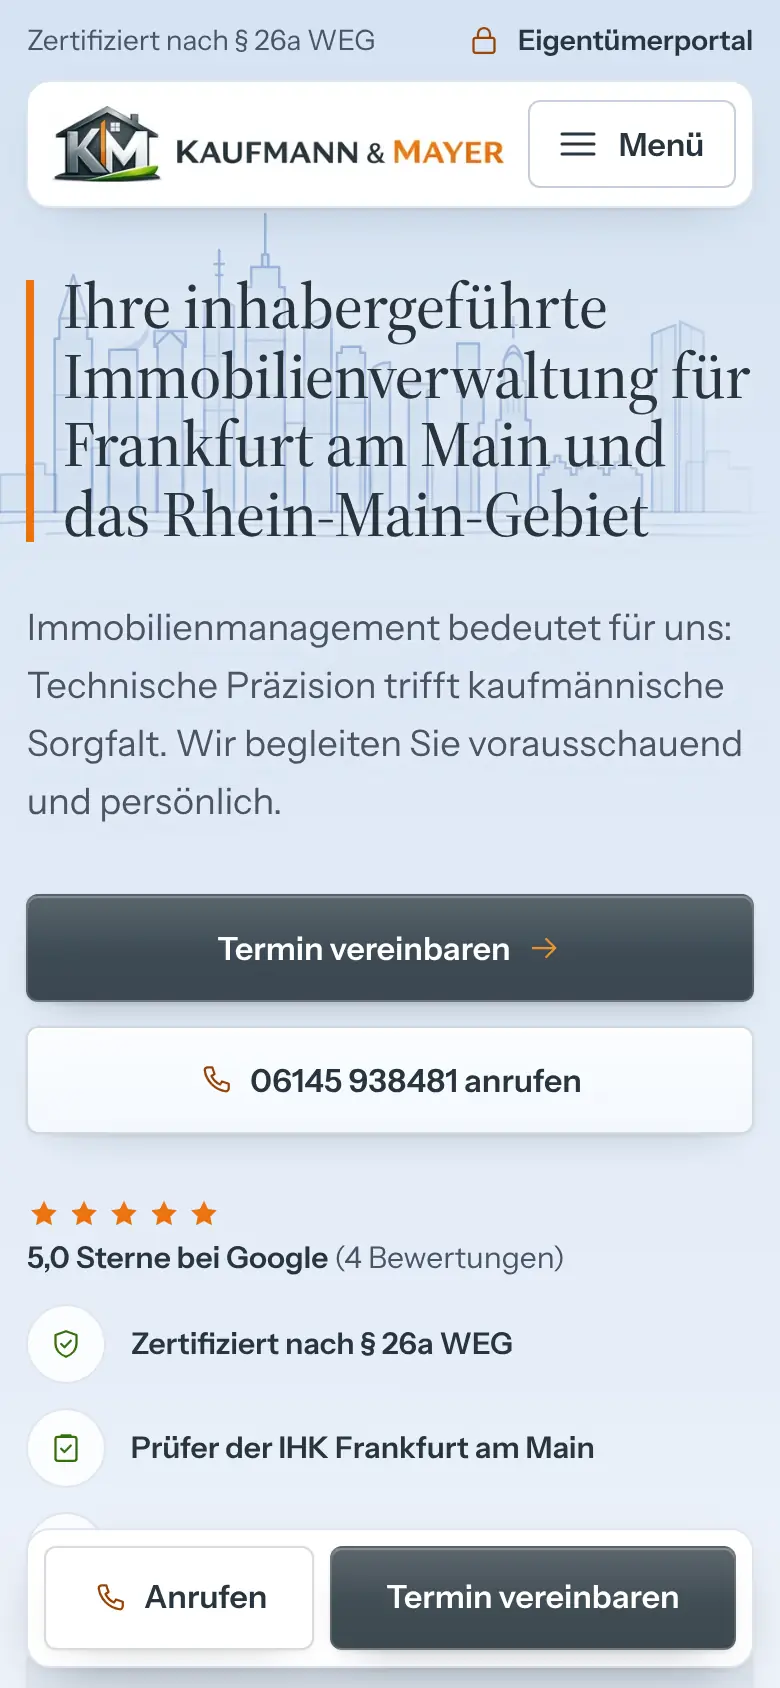
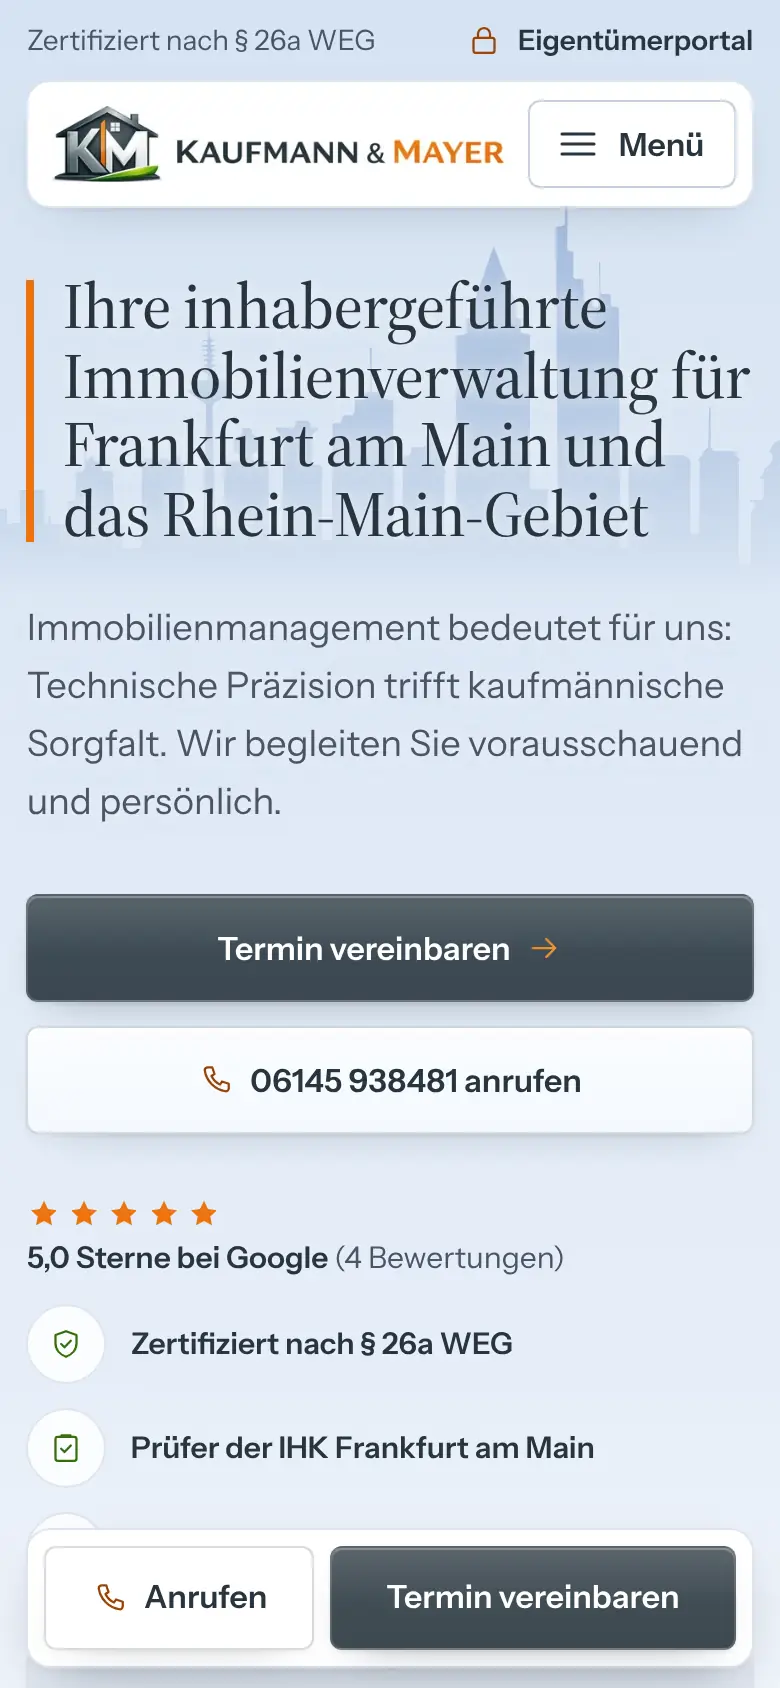
feat: Skyline im Hero nach gelieferter Vorlage, größer und ohne Linien
- Frankfurter Skyline aus quellen/skyline-vorlage.png als Silhouette
  nachgezeichnet (tools/assets/skyline.py, OpenCV), ersetzt die selbst
  gezeichnete Linien-Skyline samt Grund- und Flusslinien.
- Am Desktop über die ganze Hero-Breite und links über den Rand hinaus,
  mobil hinter der Überschrift; blaue Fläche, oben kräftiger, nach unten und
  rechts auslaufend.
- README (Bauen, Grafiken, Lighthouse) und Screenshots aktualisiert.

Claude-Session: https://claude.ai/code/session_01JTmRKaozQkuH4p26yrBSYo

diff --git a/site/index.html b/site/index.html
@@ -204,9 +204,9 @@
   <!-- 2 Hero – Aufgabe: Vertrauen auf den ersten Blick, direkter Weg zur Anfrage -->
   <section class="section hero" aria-labelledby="hero-titel">
     <div class="wrap hero__grid">
-      <!-- Frankfurter Skyline als Linienzeichnung im Hintergrund (Messeturm, Westend Tower, Trianon, Main Tower,
-           Commerzbank Tower, Taunusturm, Opernturm, Skyper, Japan Center, Omniturm, Dom, Römer, EZB) -->
-      <svg class="hero__skyline" viewBox="0 0 1000 440" aria-hidden="true" focusable="false"><path class="sky__hinten" d="M0 400V352H34V338H58V352H72V400M118 400V318H138V400M178 400V306H200V400M236 400V296H262V400M366 400V286H390V400M462 400V318H476V400M554 400V322H578V310H604V400M880 400V336H906V322H934V344H962V400"/><path class="sky__tuerme" d="M70 400V178H76V152H112V178H118V400M76 152L94 96L112 152M140 400V192H176V400M202 400V188H198V168H238V188H234V400M198 188L218 168L238 188M262 400V136Q281 122 300 136V400M281 128V64M275 82H287M277 96H285M315 400V112H322V86H358V112H365V400M336 86V70H344V86M340 70V18M390 400V162L425 146V400M432 400V196H438V188H462V196H468V400M524 400V244H516V236H556V244H548V400M474 400V226Q474 210 500 208V400M586 400V286H592V246H586V184H614V246H620V286H614V400M636 400V282H642V232H646V206Q658 186 670 206V232H674V282H680V400M646 206Q658 168 670 206M658 176V150M653 160H663M690 400V352L697 352V344L704 344V336L711 336L711 328L718 328V336L725 336V344L732 344V352L739 352V344L746 344V336L753 336V328L760 328V336L767 336V344L774 344V352L781 352V344L788 344V336L795 336V328L802 328V336L809 336V344L816 344V352L823 352V400M836 400V172L866 160V400M870 400L872 156L902 170V400M866 236H870M866 300H870"/><path class="sky__details" d="M70 250H118M70 320H118M150 192Q190 186 192 150M160 192Q188 184 191 160M170 192Q186 184 190 172M315 180H365M315 250H365M315 320H365M262 200H300M262 270H300M262 340H300M281 136V400M390 230H425M390 300H425M432 260H468M432 330H468M651 240V272M658 240V272M665 240V272M848 172V400M886 166V400"/><path class="sky__boden" d="M0 400H1000"/><path class="sky__fluss" d="M0 414Q125 408 250 414T500 414T750 414T1000 414M60 428Q185 422 310 428T560 428T810 428T1000 427"/></svg>
+      <!-- Frankfurter Skyline als Silhouette im Hintergrund, nachgezeichnet aus der gelieferten Vorlage
+           (quellen/skyline-vorlage.png, Werkzeug: tools/assets/skyline.py) -->
+      <svg class="hero__skyline" viewBox="0 0 1000 413" preserveAspectRatio="xMinYMax meet" aria-hidden="true" focusable="false"><defs><linearGradient id="sky-verlauf" x1="0" y1="0" x2="0" y2="1"><stop offset="0" stop-color="#2a5ea8" stop-opacity=".3"/><stop offset=".55" stop-color="#2a5ea8" stop-opacity=".21"/><stop offset=".85" stop-color="#2a5ea8" stop-opacity=".08"/><stop offset="1" stop-color="#2a5ea8" stop-opacity="0"/></linearGradient></defs><path fill="url(#sky-verlauf)" fill-rule="evenodd" d="M999.5 317.4L998 315.9L980.8 316.4L978.8 315.5L978.3 267.2L976.9 265.7L971 265.7L969 262.3L957.2 262.3L954.2 258.9L953.2 255.4L953.2 258.4L949.8 263.8L947.3 263.8L944.4 266.2L941.4 266.7L940.9 277.6L935.5 280L936.5 337.1L935.5 338.1L923.2 339.1L921.3 337.6L920.3 303.6L868.6 304.6L868.6 336.6L867.1 338.1L862.7 338.6L860.7 336.6L860.2 264.8L859.3 263.8L848.9 263.8L847.9 262.8L847.9 256.9L846.5 254.4L826.3 254.4L825.3 255.4L825.3 262.8L817.9 263.8L815.5 265.7L815.9 351.4L813.5 353.3L805.1 352.9L803.1 351.4L802.7 325.3L803.1 319.9L806.1 317.4L805.1 316.4L795.8 316.4L794.8 315.5L794.3 295.8L796.8 293.8L793.8 291.3L792.8 286.4L790.4 282.5L784.9 278.1L784.9 270.7L788.4 269.2L786.4 266.2L786.4 263.3L780 256.9L773.6 261.8L772.1 266.2L770.2 268.2L774.1 270.7L774.1 278.1L768.2 283L765.7 286.4L764.8 290.8L761.8 293.3L761.8 294.8L765.3 295.8L765.3 314.5L763.3 316.4L752 316.4L751 317.4L752.5 318.9L755.4 318.9L756.4 320.4L755.9 325.8L752.5 328.2L752.5 378.9L750.5 380.4L741.1 379.9L740.2 378.9L740.6 274.6L737.7 272.1L737.2 268.7L735.7 267.7L715.1 267.7L712.1 263.8L712.1 223.9L710.6 223.4L709.6 263.8L704.2 268.7L703.7 271.7L700.8 274.1L700.8 349.4L699.8 350.4L692.9 350.4L691.4 347.4L691.9 276.1L684.5 271.7L654 271.7L648.6 274.6L646.2 279.5L636.8 279L629.9 284L629.9 363.2L628.4 364.7L622.5 364.7L621.6 363.7L620.1 125L618.1 123L612.2 122.5L611.7 111.7L610.7 110.2L602.9 110.2L601.4 108.8L601.4 77.3L600.4 77.8L600.9 108.3L599.4 123L595.5 123.5L594 122L594 118.6L592.5 117.6L587.1 118.1L585.1 116.6L584.6 96.9L583.7 95.5L576.3 95.5L574.3 93L574.8 68.9L573.3 67.4L569.9 67.4L568.4 65.5L568.9 1L566.9 0L565.9 1L566.4 40.4L563 42.3L558.1 42.3L557.1 44.3L559.1 336.6L557.1 339.6L550.2 339.6L548.7 337.6L548.7 306.6L547.7 305.6L532.5 306.6L531 304.1L531 151.6L530 150.1L523.1 149.6L521.7 148.1L522.1 135.3L518.7 134.8L517.2 133.4L517.2 120.6L494.6 62.5L472.9 125L472.9 133.4L471.5 134.8L467.5 135.3L467.5 149.1L465.1 151.1L457.2 152.1L456.7 348.9L455.7 350.4L446.4 350.4L444.9 348.9L445.9 272.1L441.4 271.2L440 269.7L439 251L430.6 250.5L427.2 251.5L426.2 263.3L412.9 263.8L411.9 264.8L411.9 269.7L409.9 271.7L404 272.1L403.5 355.3L402.1 356.8L396.2 356.8L394.7 355.3L394.2 217L385.3 215.1L383.9 209.2L374 208.7L372.5 207.2L372.5 163.9L370.6 164.4L371.1 207.7L365.6 209.6L365.2 214.6L363.7 216L355.8 216.5L354.8 230.3L353.3 231.8L343.5 231.8L341.5 239.7L334.2 239.7L333.2 241.1L332.7 356.8L329.7 357.8L322.3 356.3L322.3 282L313.5 281.5L312.5 280.5L312.5 250.5L319.4 244.6L311.5 244.1L309.5 237.2L297.7 237.2L295.8 239.2L295.8 243.1L294.3 244.6L276.6 244.1L275.6 245.1L283.5 255.4L283 355.8L281.5 356.8L271.7 356.8L269.7 354.8L269.2 278.5L267.7 277.6L254.9 277.6L252.5 276.1L252 271.2L259.4 266.7L259.4 254.4L252.5 251L252.5 247L250.5 244.6L243.1 245.1L242.1 250.5L234.7 254.9L234.3 265.7L236.2 268.7L240.2 270.7L240.6 275.6L238.7 277.6L225.9 278.5L224.4 280.5L224.4 344L222.9 345.5L218 344.5L216.5 343L212.6 223.4L214.1 220L233.8 207.2L227.9 206.7L226.4 205.2L226.9 199.8L229.3 198.8L229.8 196.9L213.1 196.9L212.1 195.9L211.6 190L217 187.5L213.1 187L211.6 184.1L217 181.6L211.6 180.1L212.6 177.2L215.6 176.7L212.6 175.7L211.6 173.2L216.5 171.8L213.1 171.3L211.6 169.8L213.1 166.8L215.1 167.3L215.6 166.3L211.6 165.4L211.1 163.9L216.5 161.9L212.1 161.4L210.6 159.9L212.1 157.5L215.1 157.5L215.6 156.5L212.6 156.5L210.6 155L209.2 129.9L208.7 154.5L207.2 156.5L203.7 156L203.7 157.5L206.7 157L208.7 159.9L207.7 161.4L202.8 161.4L202.8 162.9L208.2 163.4L207.2 165.8L203.2 165.8L203.2 166.8L206.7 166.8L208.2 168.3L207.2 170.8L203.2 171.3L203.2 172.2L208.2 173.2L207.7 175.2L203.7 176.2L203.7 177.2L206.7 177.2L208.2 179.6L206.7 181.1L202.8 181.6L202.8 182.6L206.2 182.6L208.2 184.1L207.2 186.5L202.8 187L202.8 188.5L207.7 189.5L207.7 195.4L206.2 196.9L190.5 196.9L190 198.3L193.4 199.8L193.4 205.2L191.4 206.7L188.5 206.2L187 207.2L206.7 221L203.2 343L201.8 344.5L185.5 344.5L184.5 343.5L184.1 280L180.6 278.1L180.6 272.6L179.6 271.7L177.2 272.6L177.2 277.6L175.7 279L171.3 278.5L168.8 274.6L160.4 275.1L158 279.5L154.5 279L152.1 274.6L144.7 274.6L141.7 279.5L142.2 362.2L140.3 364.7L123.5 363.7L122.5 362.7L123.5 341.5L122.5 340.6L115.2 341L113.7 339.6L113.2 287.9L102.9 287.4L101.9 286.4L101.4 278.5L95.5 278.1L93 272.6L89.6 273.6L89.6 276.1L88.1 277.6L86.1 276.6L85.1 254.9L84.6 285.9L82.2 288.4L77.8 287.9L75.8 289.4L75.8 315.5L74.3 316.9L67.9 317.9L68.4 339.1L67.4 340.6L52.7 341L51.2 340.1L50.2 332.7L48.7 333.2L48.2 340.1L47.2 341L44.8 340.1L43.8 306.6L19.7 306.6L19.7 338.1L18.7 339.6L8.4 340.1L6.9 338.6L6.9 325.3L0 325.3L0 411.9L1 412.9L999 412.9Z"/></svg>
       <div class="hero__text">
         <h1 id="hero-titel" class="hero__title">Ihre inhaber&shy;geführte Immobilien&shy;verwaltung für Frankfurt am Main und das Rhein-Main-Gebiet</h1>
         <p class="hero__lead">Immobilienmanagement bedeutet für uns: Technische Präzision trifft kaufmännische Sorgfalt. Wir begleiten Sie vorausschauend und persönlich.</p>

diff --git a/site/css/site.css b/site/css/site.css
@@ -596,7 +596,8 @@ strong { font-weight: 600; }
   background: linear-gradient(180deg, var(--hero-oben) 0%, #e6eef8 62%, var(--white) 100%);
   padding-block: calc(var(--header-h) + clamp(2rem, 1.25rem + 3vw, 4.5rem)) clamp(2.5rem, 1.75rem + 2.5vw, 4rem);
 }
-/* Frankfurter Skyline: Linienzeichnung in Blau, groß links hinter dem Text, über den Rand hinaus.
+/* Frankfurter Skyline: blaue Silhouette nach der gelieferten Vorlage, groß hinter Text und Foto,
+   links über den Rand hinaus; nach unten und rechts blasst sie aus (Verlauf im SVG, Maske).
    Mobil liegt sie hinter der Überschrift, damit der Fließtext frei bleibt. */
 .hero__skyline {
   position: relative;
@@ -604,20 +605,21 @@ strong { font-weight: 600; }
   grid-column: 1;
   grid-row: 1;
   align-self: start;
-  width: calc(100% + 2 * var(--gutter));
+  width: calc(130% + 2 * var(--gutter));
   max-width: none;
-  margin: -2.25rem 0 0 calc(var(--gutter) * -1);
-  opacity: 0.8;
+  margin: -2.75rem 0 0 calc(var(--gutter) * -1);
   pointer-events: none;
-  -webkit-mask-image: linear-gradient(90deg, #000 78%, transparent 100%);
-  mask-image: linear-gradient(90deg, #000 78%, transparent 100%);
+  -webkit-mask-image: linear-gradient(90deg, #000 72%, transparent 100%);
+  mask-image: linear-gradient(90deg, #000 72%, transparent 100%);
 }
-.hero__skyline path { fill: none; stroke: var(--blue-600); stroke-width: 1.25; stroke-linejoin: round; stroke-linecap: round; vector-effect: non-scaling-stroke; }
-.hero__skyline .sky__tuerme { fill: rgb(42 94 168 / 0.07); stroke-opacity: 0.45; }
-.hero__skyline .sky__hinten { fill: rgb(42 94 168 / 0.04); stroke-opacity: 0.26; }
-.hero__skyline .sky__details { stroke-opacity: 0.2; stroke-width: 1; }
-.hero__skyline .sky__boden { stroke-opacity: 0.38; }
-.hero__skyline .sky__fluss { stroke-opacity: 0.22; }
+@media (min-width: 60em) {
+  .hero__skyline {
+    grid-column: 1 / -1;
+    align-self: end;
+    width: calc(100% + var(--gutter) + 6rem);
+    margin: 0 0 -1rem calc(var(--gutter) * -1 - 6rem);
+  }
+}
 .hero__text { position: relative; z-index: 1; grid-column: 1; grid-row: 1; }
 /* weicher heller Schein um die Schrift: die Linien der Skyline treten an den Buchstaben zurück */
 .hero__title, .hero__lead { text-shadow: 0 0 6px rgb(236 242 250 / 0.95), 0 0 18px rgb(236 242 250 / 0.9); }

diff --git a/tools/assets/skyline.py b/tools/assets/skyline.py
@@ -1,0 +1,41 @@
+"""Zeichnet die Frankfurter Skyline aus der gelieferten Vorlage als SVG-Pfad nach.
+
+    python3 -I tools/assets/skyline.py      (einmalig; braucht opencv-python-headless und numpy)
+
+Quelle: quellen/skyline-vorlage.png (580 x 386 px, schwarze Silhouette auf Weiß),
+vom Auftraggeber im Chat geliefert. Die Vorlage wird vierfach vergrößert, in
+Schwarz/Weiß getrennt, ihre Umrisse werden nachgezogen und vereinfacht. Ausgabe:
+tools/assets/skyline.svg.html – ein <svg>, das in site/index.html (Hero) steht.
+"""
+from pathlib import Path
+import cv2
+import numpy as np
+
+ROOT = Path(__file__).resolve().parents[2]
+SRC = ROOT / "quellen" / "skyline-vorlage.png"
+OUT = Path(__file__).with_name("skyline.svg.html")
+FAKTOR = 4          # Vergrößerung vor dem Nachzeichnen (glattere Schrägen)
+GENAUIGKEIT = 1.6   # Toleranz der Vereinfachung in vergrößerten Pixeln
+BREITE = 1000       # Breite der viewBox
+
+grau = cv2.imread(str(SRC), cv2.IMREAD_GRAYSCALE)
+gross = cv2.resize(grau, None, fx=FAKTOR, fy=FAKTOR, interpolation=cv2.INTER_CUBIC)
+_, maske = cv2.threshold(gross, 128, 255, cv2.THRESH_BINARY_INV)
+konturen, hierarchie = cv2.findContours(maske, cv2.RETR_CCOMP, cv2.CHAIN_APPROX_NONE)
+konturen = [k for k in konturen if cv2.contourArea(k) > 40 * FAKTOR * FAKTOR]
+x0, y0, b, h = cv2.boundingRect(np.vstack(konturen))
+massstab = BREITE / b
+teile = []
+for k in konturen:
+    punkte = cv2.approxPolyDP(k, GENAUIGKEIT, True).reshape(-1, 2)
+    zahlen = [f"{(x - x0) * massstab:.1f} {(y - y0) * massstab:.1f}" for x, y in punkte]
+    teile.append("M" + "L".join(zahlen) + "Z")
+hoehe = h * massstab
+d = "".join(teile).replace(".0 ", " ").replace(".0L", "L").replace(".0Z", "Z")
+svg = (f'<svg class="hero__skyline" viewBox="0 0 {BREITE} {hoehe:.0f}" preserveAspectRatio="xMinYMax meet" aria-hidden="true" focusable="false">'
+       f'<defs><linearGradient id="sky-verlauf" x1="0" y1="0" x2="0" y2="1">'
+       f'<stop offset="0" stop-color="#2a5ea8" stop-opacity=".3"/><stop offset=".55" stop-color="#2a5ea8" stop-opacity=".21"/>'
+       f'<stop offset=".85" stop-color="#2a5ea8" stop-opacity=".08"/><stop offset="1" stop-color="#2a5ea8" stop-opacity="0"/></linearGradient></defs>'
+       f'<path fill="url(#sky-verlauf)" fill-rule="evenodd" d="{d}"/></svg>')
+OUT.write_text(svg)
+print(f"{len(konturen)} Umrisse, viewBox {BREITE} x {hoehe:.0f}, {len(svg)} Zeichen")

diff --git a/README.md b/README.md
@@ -24,7 +24,7 @@ Ganze Seite: [Desktop](screenshots/startseite-1440.webp) ·
 
 ## Lighthouse
 
-Gemessen am 14.10.2026 (aktueller Stand: Skyline, Logofarben, Glas-Buttons, neue Werterhalt-Animation) mit Lighthouse 12.8.2 (Chromium aus Playwright 1.56,
+Gemessen am 14.10.2026 (aktueller Stand: Skyline nach Vorlage, Logofarben, Glas-Buttons, Werterhalt-Animation) mit Lighthouse 12.8.2 (Chromium aus Playwright 1.56,
 simulierte Drosselung) gegen den lokalen Testserver, der Routing, Header und
 Komprimierung von Cloudflare Pages nachbildet. Je drei Läufe, angegeben ist der
 Median.
@@ -35,11 +35,11 @@ Median.
 | Barrierefreiheit | ≥ 95 | **100** | **100** |
 | Best Practices | – | 100 | 100 |
 | SEO | 100 | **100** | **100** |
-| Largest Contentful Paint | < 2,5 s | **1,50 s** | 0,35 s |
+| Largest Contentful Paint | < 2,5 s | **1,51 s** | 0,35 s |
 | Cumulative Layout Shift | < 0,1 | **0,000** | 0,000 |
 | First Contentful Paint | – | 1,01 s | 0,25 s |
-| Total Blocking Time | – | 3 ms | 0 ms |
-| Übertragene Daten | – | 99 KB | 96 KB |
+| Total Blocking Time | – | 12 ms | 0 ms |
+| Übertragene Daten | – | 100 KB | 97 KB |
 
 Mobil schwankt die Leistung zwischen den Läufen leicht (beim ersten Entwurf
 einmal 97). Live auf Cloudflare können die Werte etwas anders
@@ -64,16 +64,20 @@ ebenfalls an, aber ohne diese Eigenschaften.
 
 ## Bauen
 
-Es gibt keinen Build-Schritt – `site/` ist die fertige Website. Zwei Skripte
-erzeugen Bilddateien neu, falls sich Logo oder Seitentitel ändern:
+Es gibt keinen Build-Schritt – `site/` ist die fertige Website. Drei Skripte
+erzeugen Grafiken neu, falls sich Logo, Seitentitel oder Skyline-Vorlage ändern:
 
 ```bash
 python3 -I tools/assets/logo.py       # Logo (AVIF/WebP/PNG, 1x–3x), Emblem, Favicon, Touch-Icon
 node tools/assets/og-bild.js          # Vorschaubild zum Teilen: site/img/og-image.jpg
+python3 -I tools/assets/skyline.py    # Skyline-Silhouette aus quellen/skyline-vorlage.png
 ```
 
 `logo.py` braucht eine aktuelle Pillow-Version mit AVIF-Unterstützung, `og-bild.js`
-Playwright (`npm i -g playwright`).
+Playwright (`npm i -g playwright`), `skyline.py` OpenCV
+(`pip install opencv-python-headless`). Die Skyline schreibt ein `<svg>` nach
+`tools/assets/skyline.svg.html`; es ersetzt das `svg.hero__skyline` in
+`site/index.html`.
 
 ## Prüfen
 
@@ -217,12 +221,13 @@ Alle Werte stehen als CSS-Variablen am Anfang von `site/css/site.css`.
   „Verwalterwechsel“). Beim Überfahren hellt die Fläche auf, ein Pfeil rückt
   3 px nach rechts.
 - **Grafiken (inline SVG und HTML, keine Bilddateien):**
-  Hero – die Frankfurter Skyline als blaue Linienzeichnung groß links im
-  Hintergrund (Messeturm, Westend Tower, Trianon, Main Tower, Commerzbank Tower,
-  Taunusturm, Opernturm, Skyper, Japan Center, Omniturm, Dom, Römer, EZB, davor
-  der Main). Sie läuft über den linken Rand hinaus und blendet nach rechts aus;
-  die Hero-Texte haben einen weichen hellen Schein, damit die Linien an den
-  Buchstaben zurücktreten.
+  Hero – die Frankfurter Skyline als blaue Silhouette groß im Hintergrund,
+  nachgezeichnet aus der gelieferten Vorlage (`quellen/skyline-vorlage.png`,
+  mit Europaturm, Messeturm und Commerzbank Tower). Sie reicht über die ganze
+  Hero-Breite, läuft links über den Rand hinaus und blasst nach unten (ohne
+  Kante) und nach rechts aus; mobil liegt sie hinter der Überschrift. Die
+  Hero-Texte haben einen weichen hellen Schein, damit die Silhouette an den
+  Buchstaben zurücktritt.
   „Steuerberater trifft Ingenieur“ – Werterhalt-Animation nach der gelieferten
   Vorlage `werterhalt-venn.html`, Mechanik unverändert: Die Kreise
   „Kaufmännisch“ (Grün) und „Technisch“ (Orange) zeichnen sich – ein
@@ -401,6 +406,13 @@ und ist dort jetzt ausgenommen. Orange-Schrift auf dem neuen Logo-Orange hätte
 mit Schiefer nur 4,2:1 erreicht – auf Orange steht deshalb Tiefschiefer (5,1:1).
 In der Meta-Beschreibung steht weiter „Jetzt Angebot anfordern.“ – das ist kein
 Button; bei Bedarf auf „Jetzt Termin vereinbaren.“ ändern.
+
+Runde „Skyline nach Vorlage“: Die selbst gezeichnete Linien-Skyline ist durch
+die gelieferte Silhouette ersetzt (vierfach vergrößert nachgezogen, ein
+geschlossener Umriss). Als reine Fläche mit gleichmäßig niedriger Deckkraft
+war sie zu blass und endete unten mit sichtbarer Kante – jetzt oben kräftiger
+(30 %) und nach unten bis 0 % auslaufend. Falls die Vorlage aus einer
+Bilddatenbank stammt, vor dem Livegang die Lizenz prüfen.
 
 Bleibt bewusst offen: Solange echte Fotos fehlen, wirken die großen
 Platzhalterflächen nüchtern – die Seite ist auf Fotos angelegt und gewinnt mit
